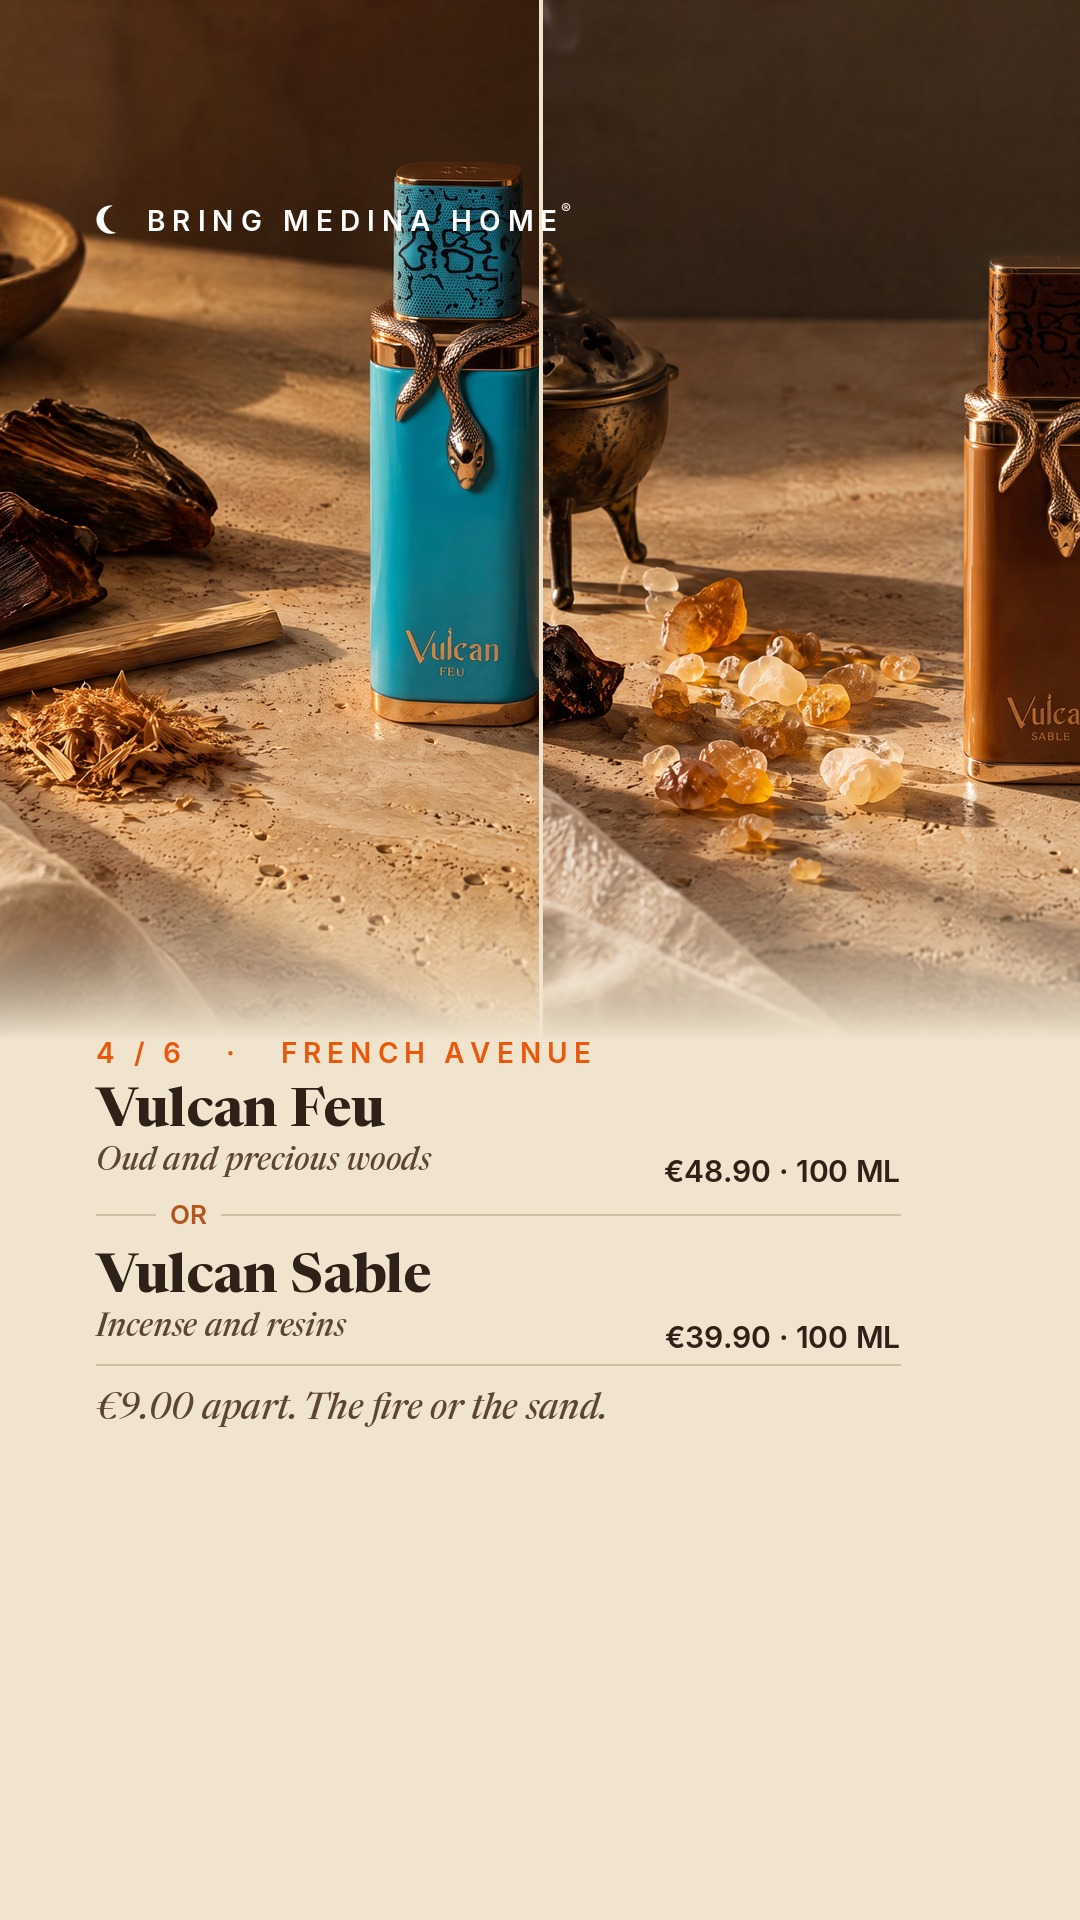
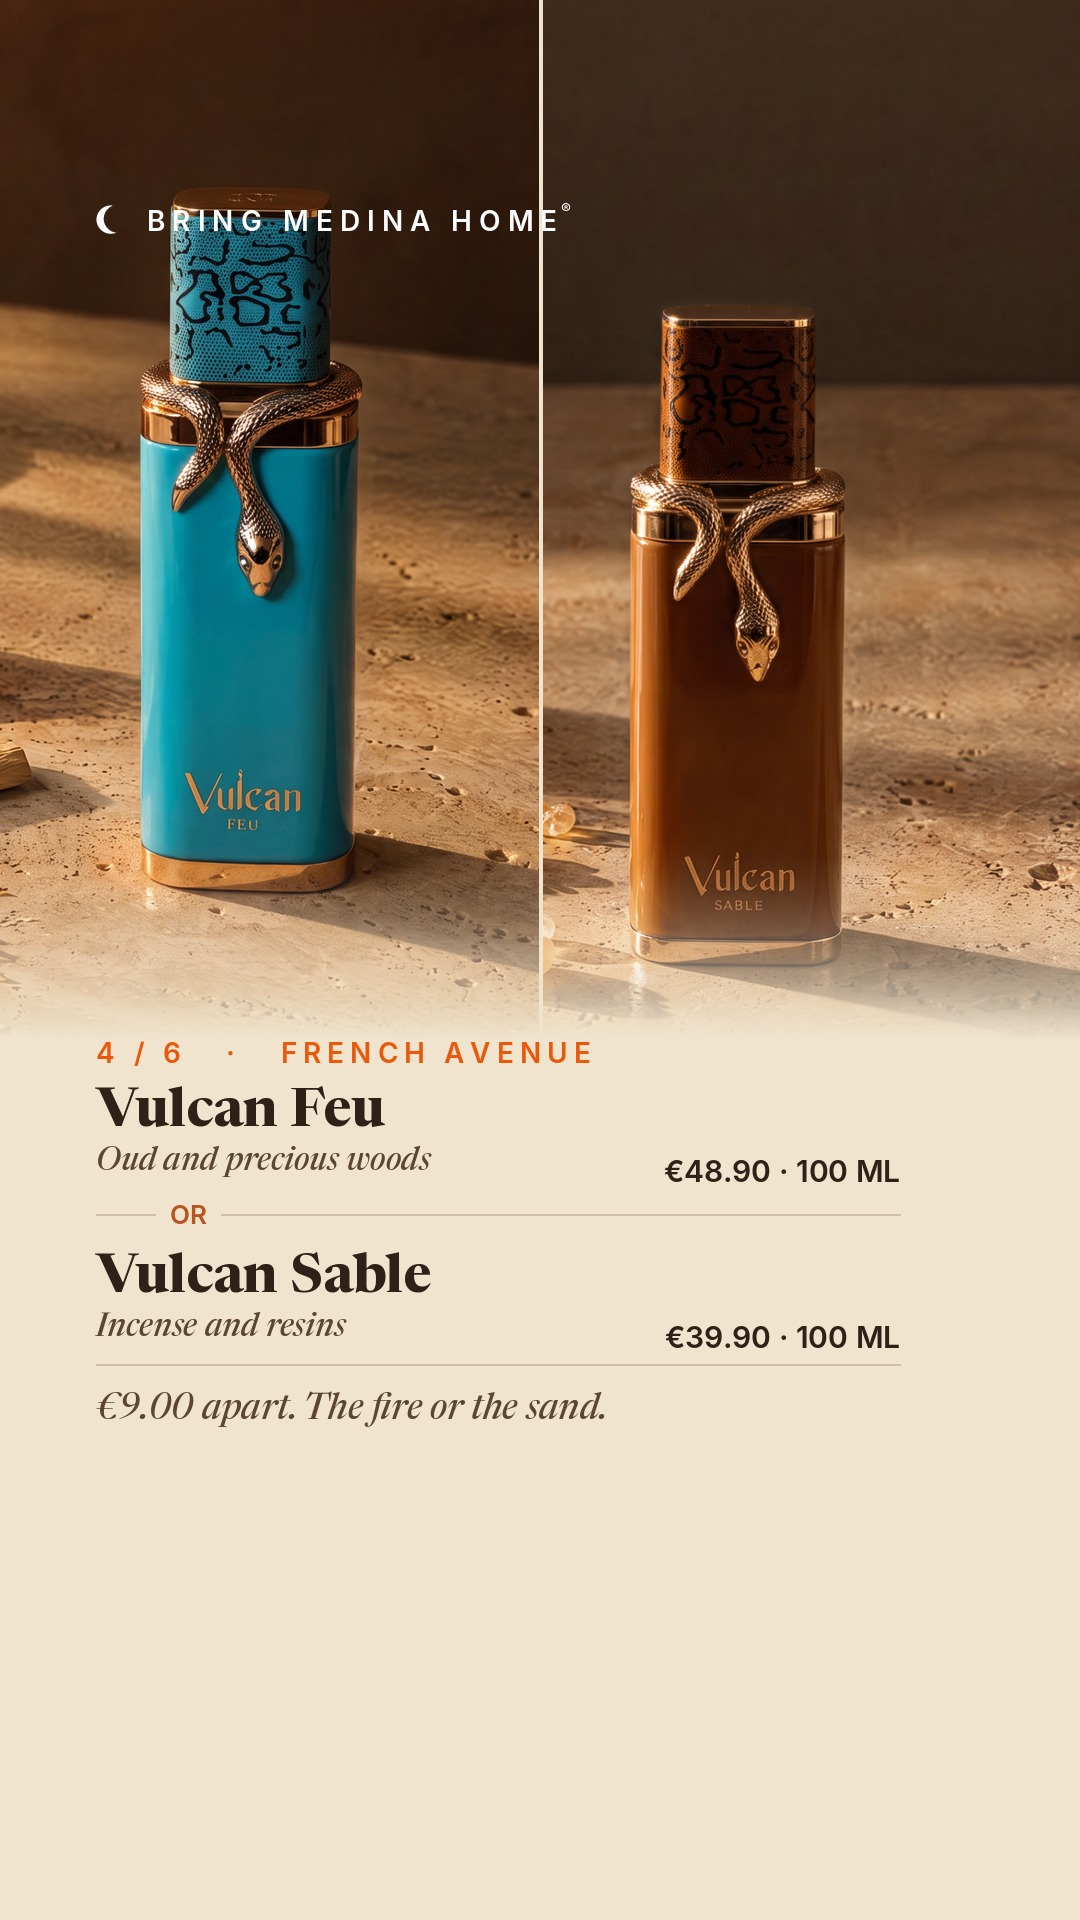
Duel du 13/11 : les flacons recadres et agrandis
Daoud a vu ce que je n'avais pas vu : dans les ecrans coupes, les
flacons etaient coupes ou decales. Je recadrais a l'aveugle avec un
biais fixe.

Les scenes BMH mettent les accessoires a gauche et le flacon a droite,
vers 0,62-0,72 de la largeur. Un demi-ecran ne garde que 54 % de la
largeur : recadrer au milieu coupait le flacon. La position de chaque
flacon est maintenant relevee scene par scene dans CENTRE, et les deux
cubes Aventure ont leur propre hauteur dans HAUTEUR.

Zoom de 1,25 : le flacon ne faisait qu'un tiers de la hauteur et se
lisait mal sur un telephone.

La diapo de fin prend Ana Abiyedh au lieu de Gulf Orchid, qui servait
deja a la diapo 7.

Claude-Session: https://claude.ai/code/session_01WRuYh1Ti56z8AmDfbamWmu

diff --git a/carrousels/duel13novembre/carrousel.py b/carrousels/duel13novembre/carrousel.py
@@ -145,16 +145,53 @@ def poser_signature(img, x, y, couleur, corps=30, espace=7):
 
 # ---------------------------------------------------------------- decors
 
-def panneau(ean, largeur, hauteur, biais=0.5):
-    """Un demi-ecran a partir d'une scene produit. `biais` decide quelle part
-    de la scene on garde : a droite on recadre vers la gauche, pour que le
+#  OU SE TROUVE LE FLACON DANS CHAQUE SCENE, en fraction de la largeur.
+#  Le style des scenes BMH met les accessoires a gauche et le flacon a
+#  DROITE, vers 0,62 a 0,72. Un demi-ecran ne garde que 54 % de la largeur :
+#  si on recadre au milieu, le flacon est coupe. Releve a l'oeil le 12/11,
+#  parce que la detection automatique attrapait le bois seche, qui est net
+#  lui aussi.
+CENTRE = {
+ "6290171002338": 0.68,  # Afnan 9pm
+ "6290171002345": 0.72,  # Afnan 9am
+ "6291106066890": 0.72,  # Ana Abiyedh
+ "6291107454412": 0.65,  # Ana Abiyedh Rouge
+ "6291100139668": 0.56,  # Al Haramain L'aventure
+ "6291100137565": 0.70,  # Al Haramain Aventure Femme
+ "6290360378053": 0.68,  # Vulcan Feu
+ "6290360378060": 0.72,  # Vulcan Sable
+ "6290362162629": 0.68,  # Gulf Orchid Mango Ice
+ "6290362162643": 0.68,  # Gulf Orchid Creme Caramel
+ "6085010044712": 0.68,  # Armaf Club de Nuit Intense Man
+ "6294015164152": 0.72,  # Armaf Club de Nuit Iconic
+}
+
+#  A quelle hauteur vit le flacon, en fraction de la hauteur de la scene.
+#  La plupart sont des flacons hauts, centres vers 0,30. Les deux Aventure
+#  sont des CUBES, plus bas et plus larges : il faut descendre la fenetre,
+#  sinon on leur coupe le pied.
+HAUTEUR = {
+ "6291100139668": 0.40,  # Al Haramain L'aventure (cube argent)
+ "6291100137565": 0.44,  # Al Haramain Aventure Femme (cube or)
+}
+
+def panneau(ean, largeur, hauteur, cible=0.5):
+    """Un demi-ecran a partir d'une scene produit, RECADRE SUR LE FLACON.
+    `cible` dit ou le flacon doit tomber dans le panneau : 0,5 au milieu.
+    Sur le panneau de droite on vise un peu plus a gauche, pour que le
     flacon ne finisse pas sous la pile de boutons de TikTok."""
     im = Image.open(os.path.join(SCENES, ean + "c.jpg")).convert("RGB")
-    ech = max(largeur / im.width, hauteur / im.height)
-    im = im.resize((int(im.width * ech) + 1, int(im.height * ech) + 1),
-                   Image.LANCZOS)
-    x = int((im.width - largeur) * biais)
-    y = int((im.height - hauteur) * 0.42)
+    # ZOOM : sans lui le flacon ne fait qu'un tiers de la hauteur et se lit
+    # mal sur un telephone. 1,25 le rapproche sans sortir du decor.
+    ech = max(largeur / im.width, hauteur / im.height) * 1.25
+    im = im.resize((max(int(im.width * ech) + 1, largeur),
+                    max(int(im.height * ech) + 1, hauteur)), Image.LANCZOS)
+    x = int(CENTRE.get(ean, 0.68) * im.width - cible * largeur)
+    x = max(0, min(x, im.width - largeur))
+    # le flacon vit vers le tiers haut de la scene : on le pose au tiers
+    # haut du panneau plutot que de couper au milieu.
+    y = int(HAUTEUR.get(ean, 0.30) * im.height - 0.36 * hauteur)
+    y = max(0, min(y, im.height - hauteur))
     return im.crop((x, y, x + largeur, y + hauteur))
 
 def photo(nom, hauteur, decalage):
@@ -352,8 +389,8 @@ def ecran_double(a, b, hauteur=1000):
     """Les deux flacons cote a cote. Le panneau de droite est recadre vers la
     gauche pour que le flacon ne finisse pas sous la pile de boutons."""
     img = Image.new("RGB", (W, hauteur), CREME)
-    img.paste(panneau(a["ean"], W // 2, hauteur, 0.52), (0, 0))
-    img.paste(panneau(b["ean"], W // 2, hauteur, 0.38), (W // 2, 0))
+    img.paste(panneau(a["ean"], W // 2, hauteur, 0.44), (0, 0))
+    img.paste(panneau(b["ean"], W // 2, hauteur, 0.48), (W // 2, 0))
     d = ImageDraw.Draw(img)
     d.line([(W // 2, 0), (W // 2, hauteur)], fill=CREME, width=4)
     return img
@@ -470,7 +507,7 @@ def diapo_offre(lg):
 def diapo_fin(lg):
     t = T[lg]
     img = Image.new("RGB", (W, H), CREME)
-    img.paste(ecran_double(DUELS[4]["a"], DUELS[4]["b"], 900), (0, 0))
+    img.paste(ecran_double(DUELS[1]["a"], DUELS[1]["b"], 900), (0, 0))
     fondu(img, 560, 340)
     poser_signature(img, MARGE_G, HAUT_SUR + 20,
                     couleur_signature(img, MARGE_G, HAUT_SUR + 20), 30)
